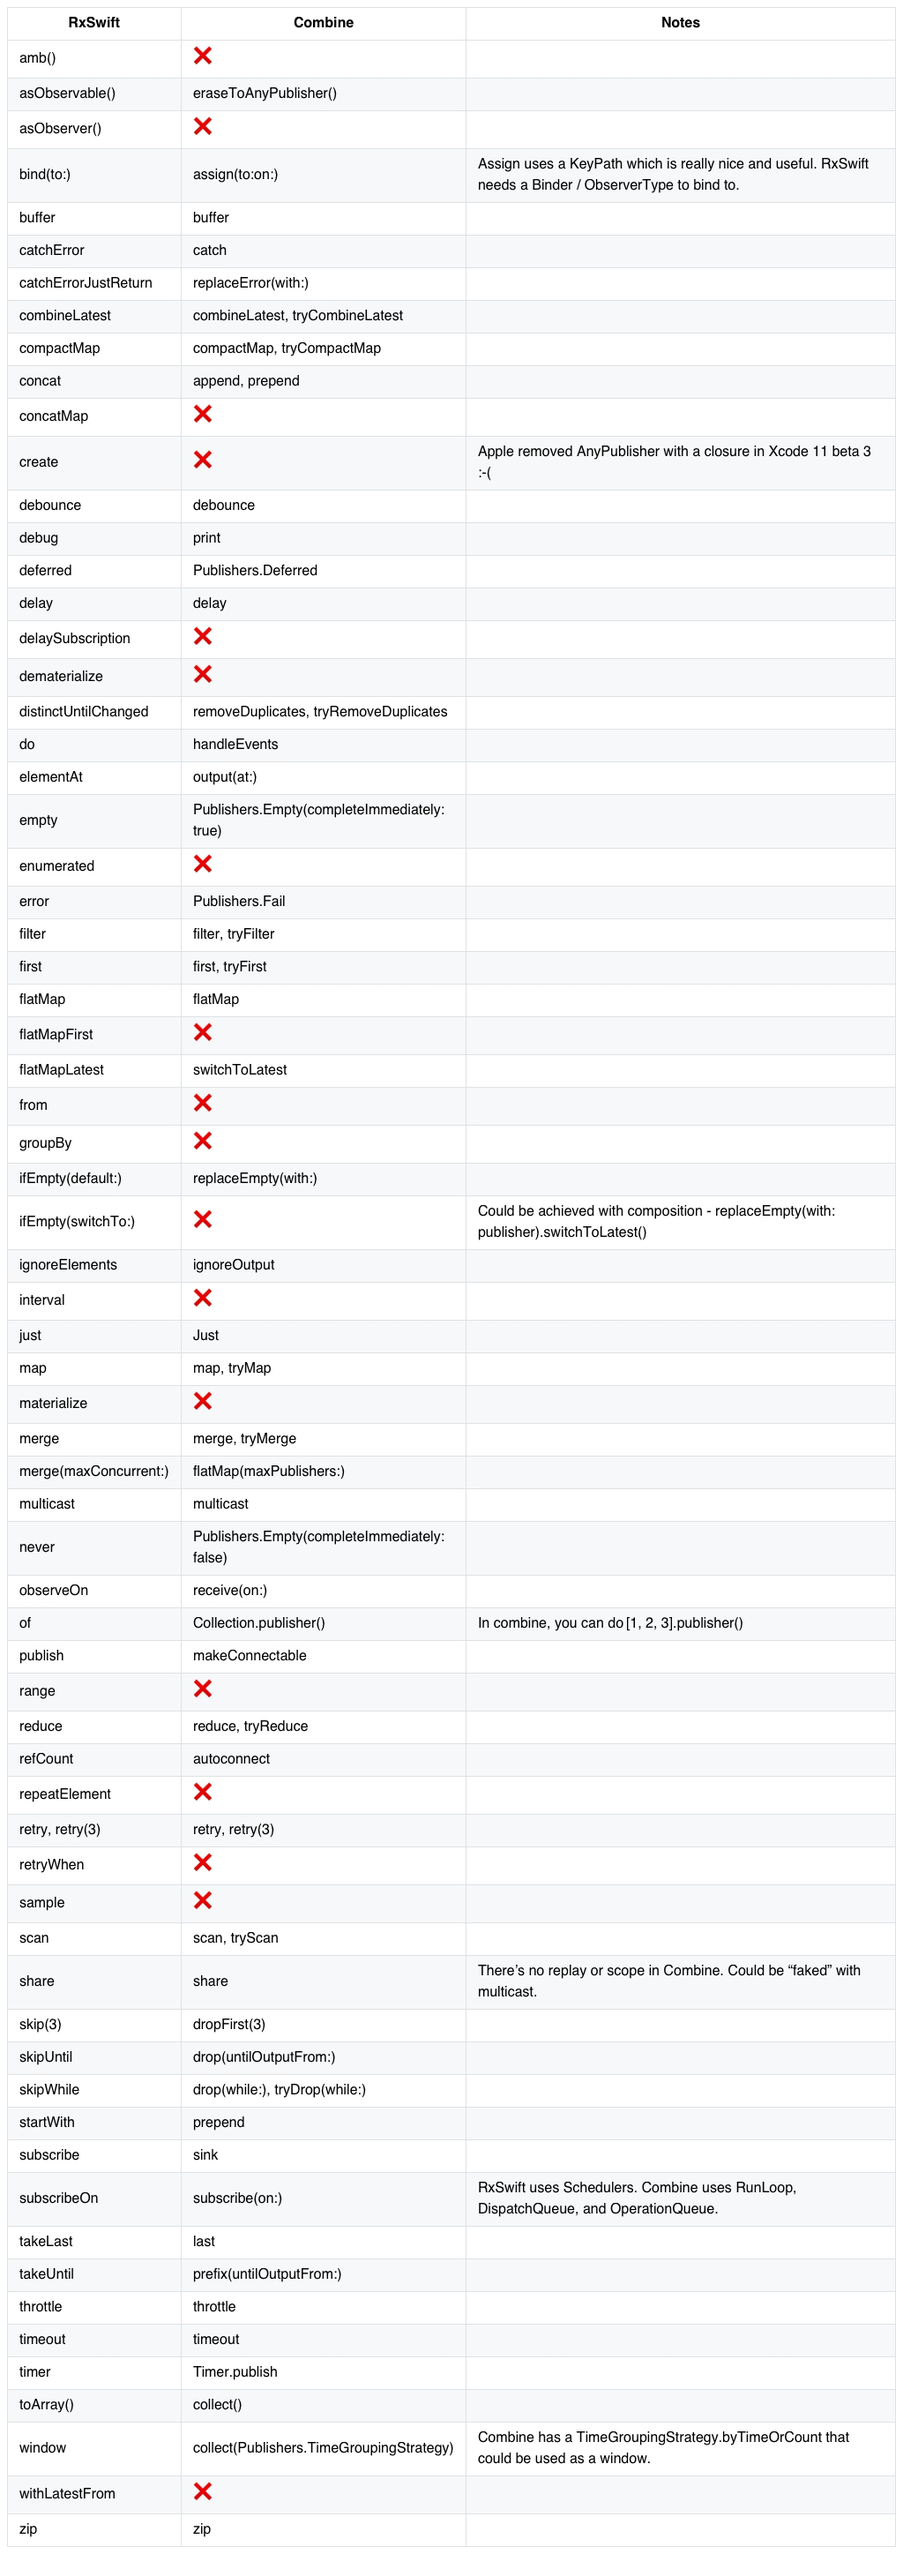
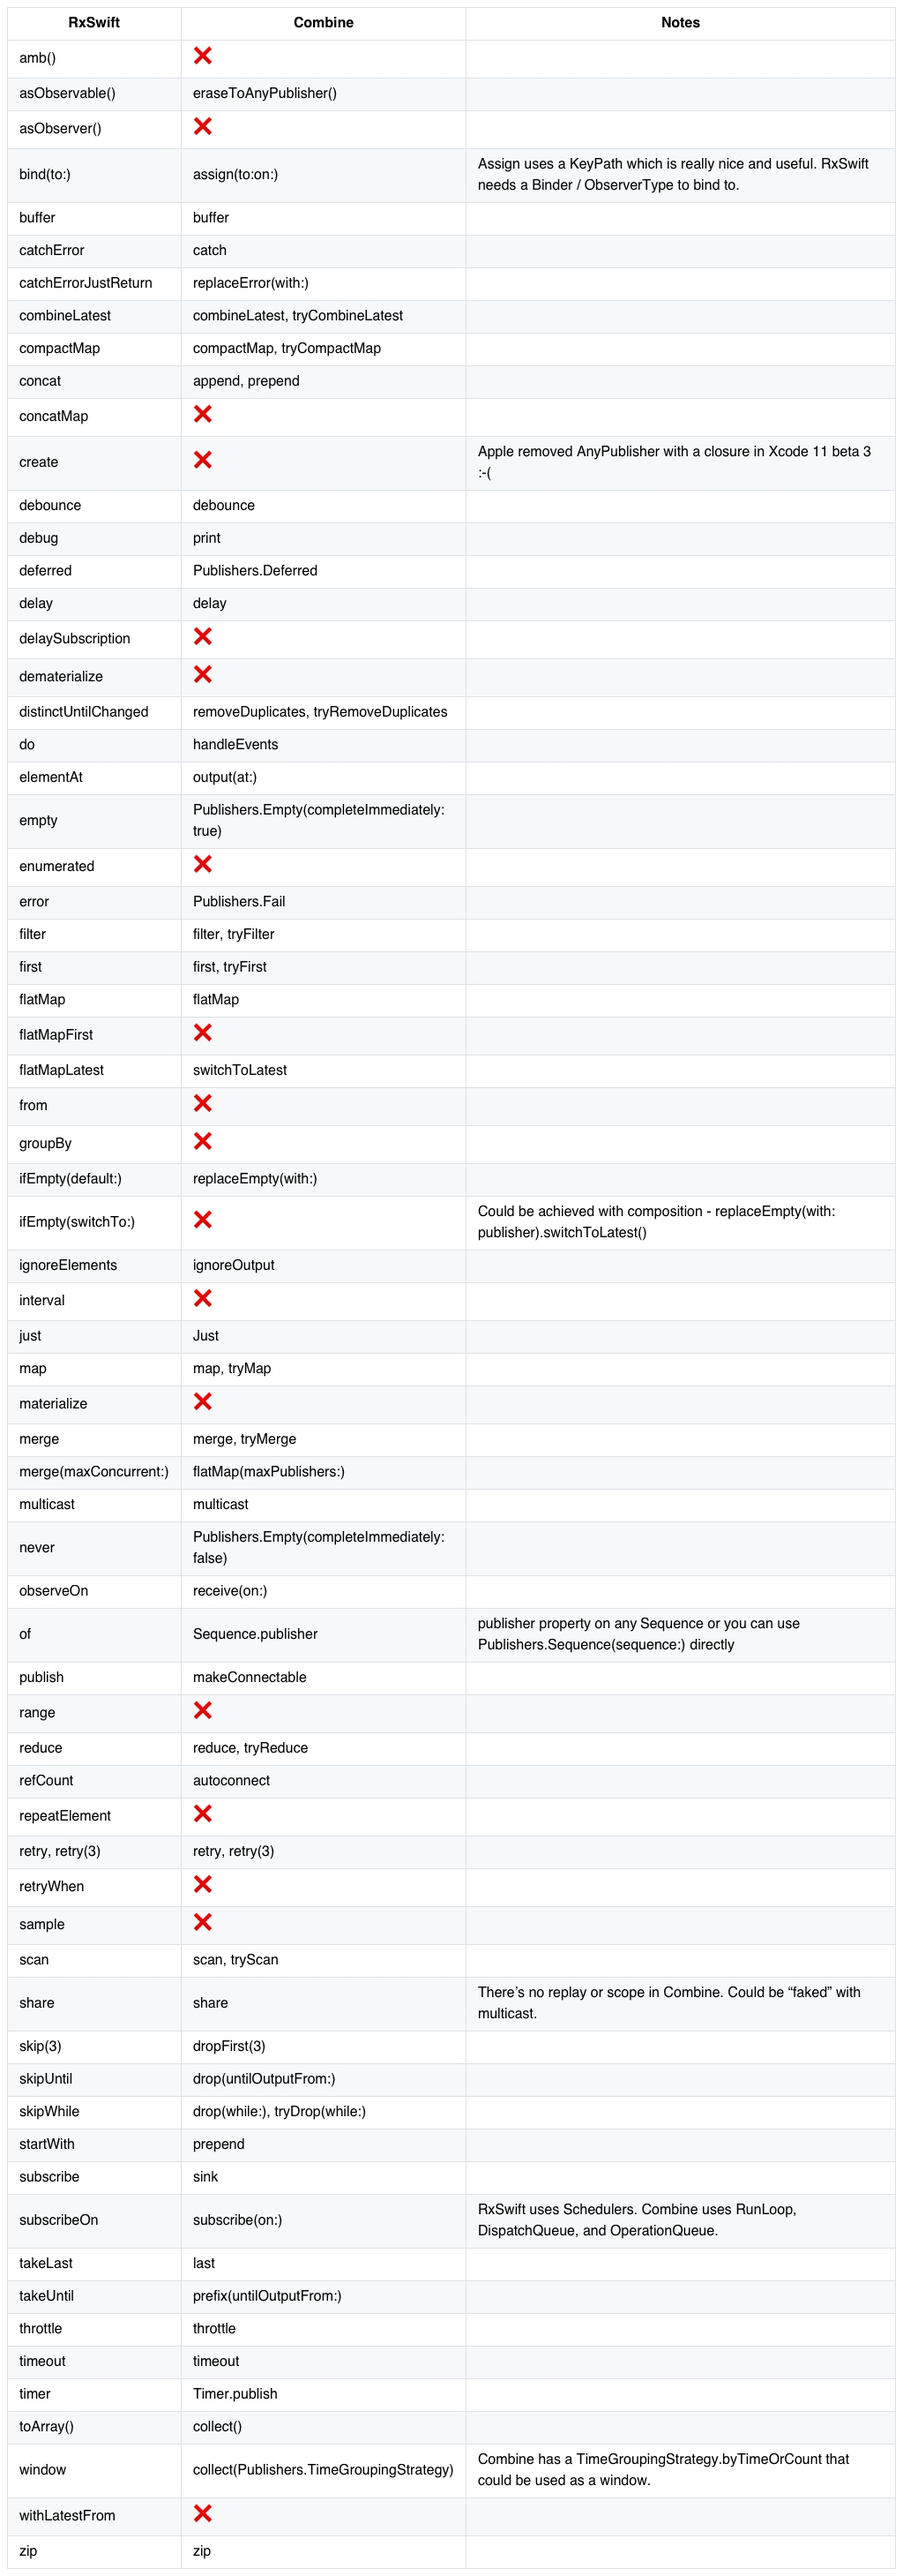
Updates `Observable.of` equivalent in Combine (#9)

diff --git a/README.md b/README.md
@@ -90,7 +90,7 @@ It's based on the following blog post: [https://medium.com/gett-engineering/rxsw
 | multicast             | multicast                                    |                                                                                                          |
 | never                 | Publishers.Empty(completeImmediately: false) |                                                                                                          |
 | observeOn             | receive(on:)                                 |                                                                                                          |
-| of                    | Collection.publisher()                       | In combine, you can do `[1, 2, 3].publisher()`                                                           |
+| of                    | Sequence.publisher                           | `publisher` property on any `Sequence` or you can use `Publishers.Sequence(sequence:)` directly          |
 | publish               | makeConnectable                              |                                                                                                          |
 | range                 | ❌                                            |                                                                                                          |
 | reduce                | reduce, tryReduce                            |                                                                                                          |
